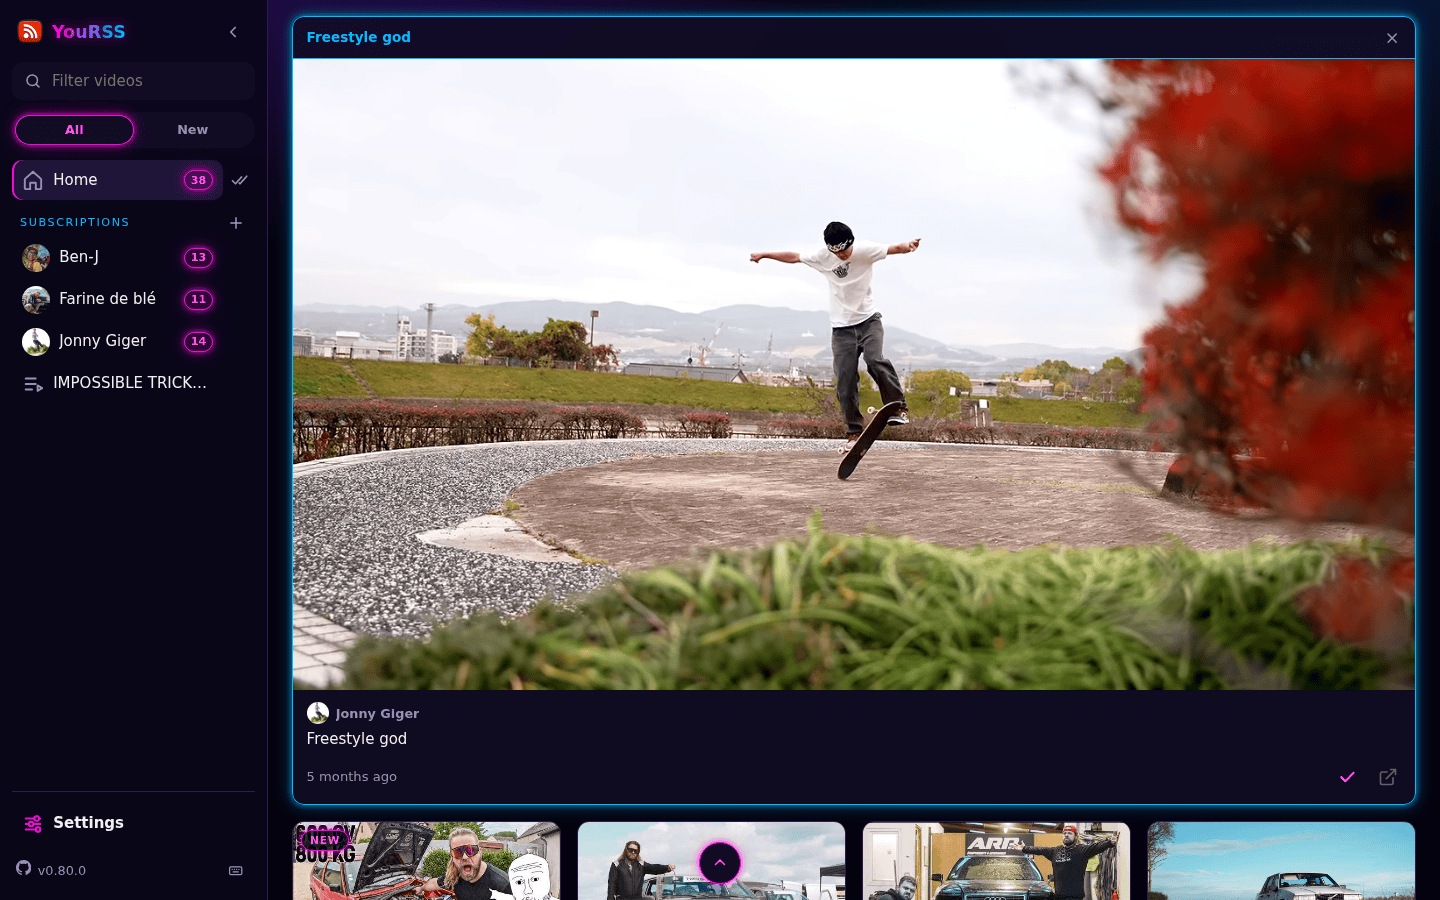
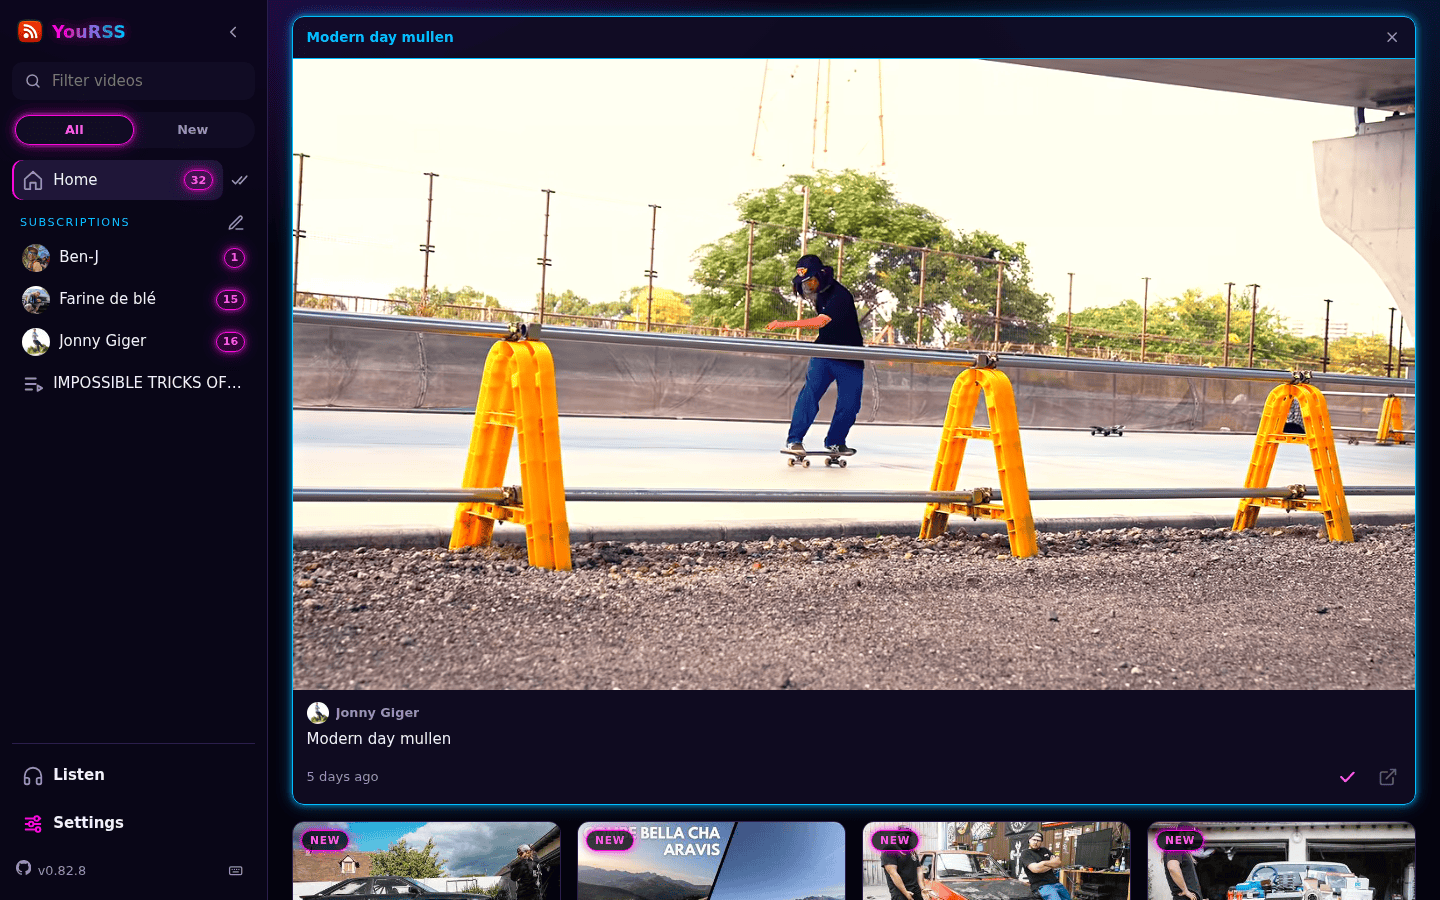
📝 README: the listen mode in the features, refreshed screenshots
The listen mode comes right after the page, with a phone and a desktop screenshot. The hero shows the same
channel on desktop and on a phone. Every screenshot showing the sidebar or the top bar is taken again (the
Listen button).

diff --git a/README.md b/README.md
@@ -4,7 +4,7 @@
 
 > A minimal Youtube RSS feed viewer for your browser: the latest videos of the channels you chose, on one page. No account, no registration, no ads, no recommendations, no tracking.
 
-![YouRSS on desktop and on mobile: a page in folders, a channel opened inside its folder (neon theme)](./images/yourss_hero.png)
+![YouRSS on desktop and on mobile: the same channel, opened inside its folder (neon theme)](./images/yourss_hero.png)
 
 <details>
 <summary>More screenshots</summary>
@@ -50,13 +50,23 @@ A page shows the last 15 videos of each channel and what the feed of each playli
 
 Turn on *Show new videos* in the settings and the videos you played for a few seconds are marked as watched: on the next visit a `NEW` marker and a counter per channel show what you have not seen yet, and an *All / New* switch hides the rest. This is stored in your browser only.
 
+### 🎧 Listen to a page, in the car or while you work
+
+<p align="center">
+  <img src="./images/yourss_mobile_listen.png" alt="The listen mode on a phone: the whole screen, finger sized commands" height="420">
+  <img src="./images/yourss_listen.png" alt="The listen mode on desktop: a mini player over the page" height="420">
+</p>
+
+*Listen* plays the videos of the page one after the other, as a playlist of music.
+
+- **on a phone** it takes the whole screen, with finger sized commands for a phone on a car mount: previous, play / pause, next, −30 / +30 seconds, the channel and the title, the next one. The screen stays on while it plays (an embedded Youtube player stops when the screen locks), and a button shows the thumbnail instead of the video
+- **on desktop** it is a mini player in a corner, the page stays below: a click on a video plays it there
+- start it with the headphones button, the `l` key or 🎧 in the mini player, or add `?listen` to the address of a page: bookmark it, or add it to the home screen of your phone
+- ✕ or `Esc` stops it, as does opening another folder or channel
+
 ### ▶ Play in the page
 
 Click a thumbnail to play: the player takes the whole row, or the whole screen on a phone. A link on each card opens the video on Youtube. The next video can be played automatically.
-
-### 🎧 Listen to a page
-
-*Listen* (the headphones button, or the `l` key) plays the videos of the page one after the other in a small player at the bottom of the screen, with large previous, play / pause and next buttons: a page of music, in the car or while you work. The grid stays below, a click on a video plays it in the small player. Add `?listen` to the address of a page to open it this way. On a phone the screen stays on while it plays: an embedded Youtube player stops when the screen locks.
 
 ### 📺 Keep watching while you browse
 
@@ -71,8 +81,8 @@ Click a channel in the sidebar to browse it without leaving your page: its recen
 - three themes (neon, dark, light), to pick on the home page or in the settings, and three density levels
 - works on desktop and mobile, can be added to the home screen of a phone
 - instant search in the titles
-- keyboard shortcuts: arrows move in the grid, `Space` plays, `n`/`p` play the next/previous video, `Shift`+`↑`/`↓` change channel… press `?` for the list
-- light: server-rendered pages, [htmx](https://htmx.org/), one CSS file and one JavaScript file, no framework
+- keyboard shortcuts: arrows move in the grid, `Space` plays, `n`/`p` play the next/previous video, `l` listens, `Shift`+`↑`/`↓` change channel… press `?` for the list
+- light: server-rendered pages, [htmx](https://htmx.org/), one CSS file and a few JavaScript modules, no framework, no build step
 
 ## 💡 Philosophy
 
